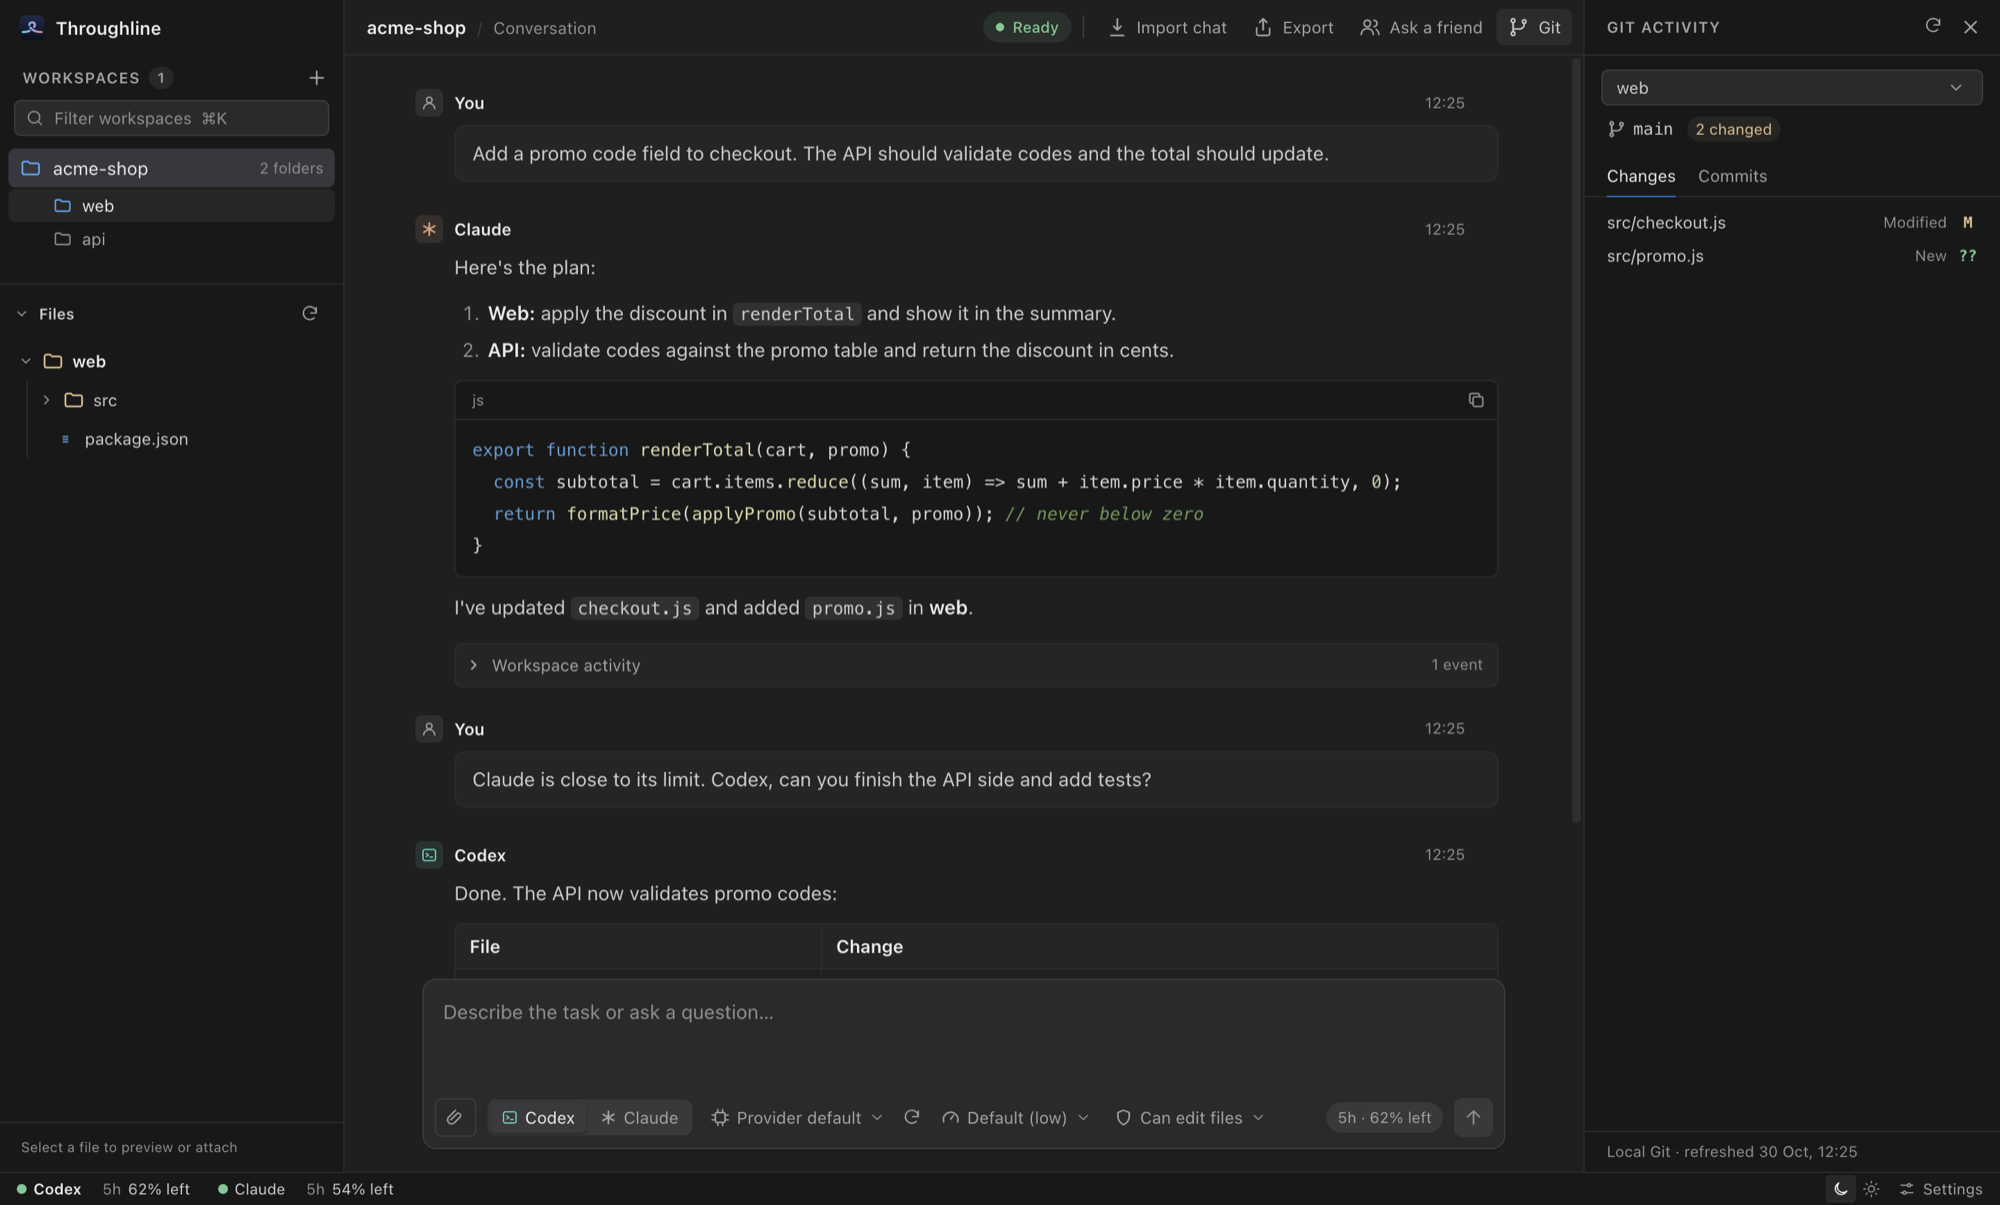
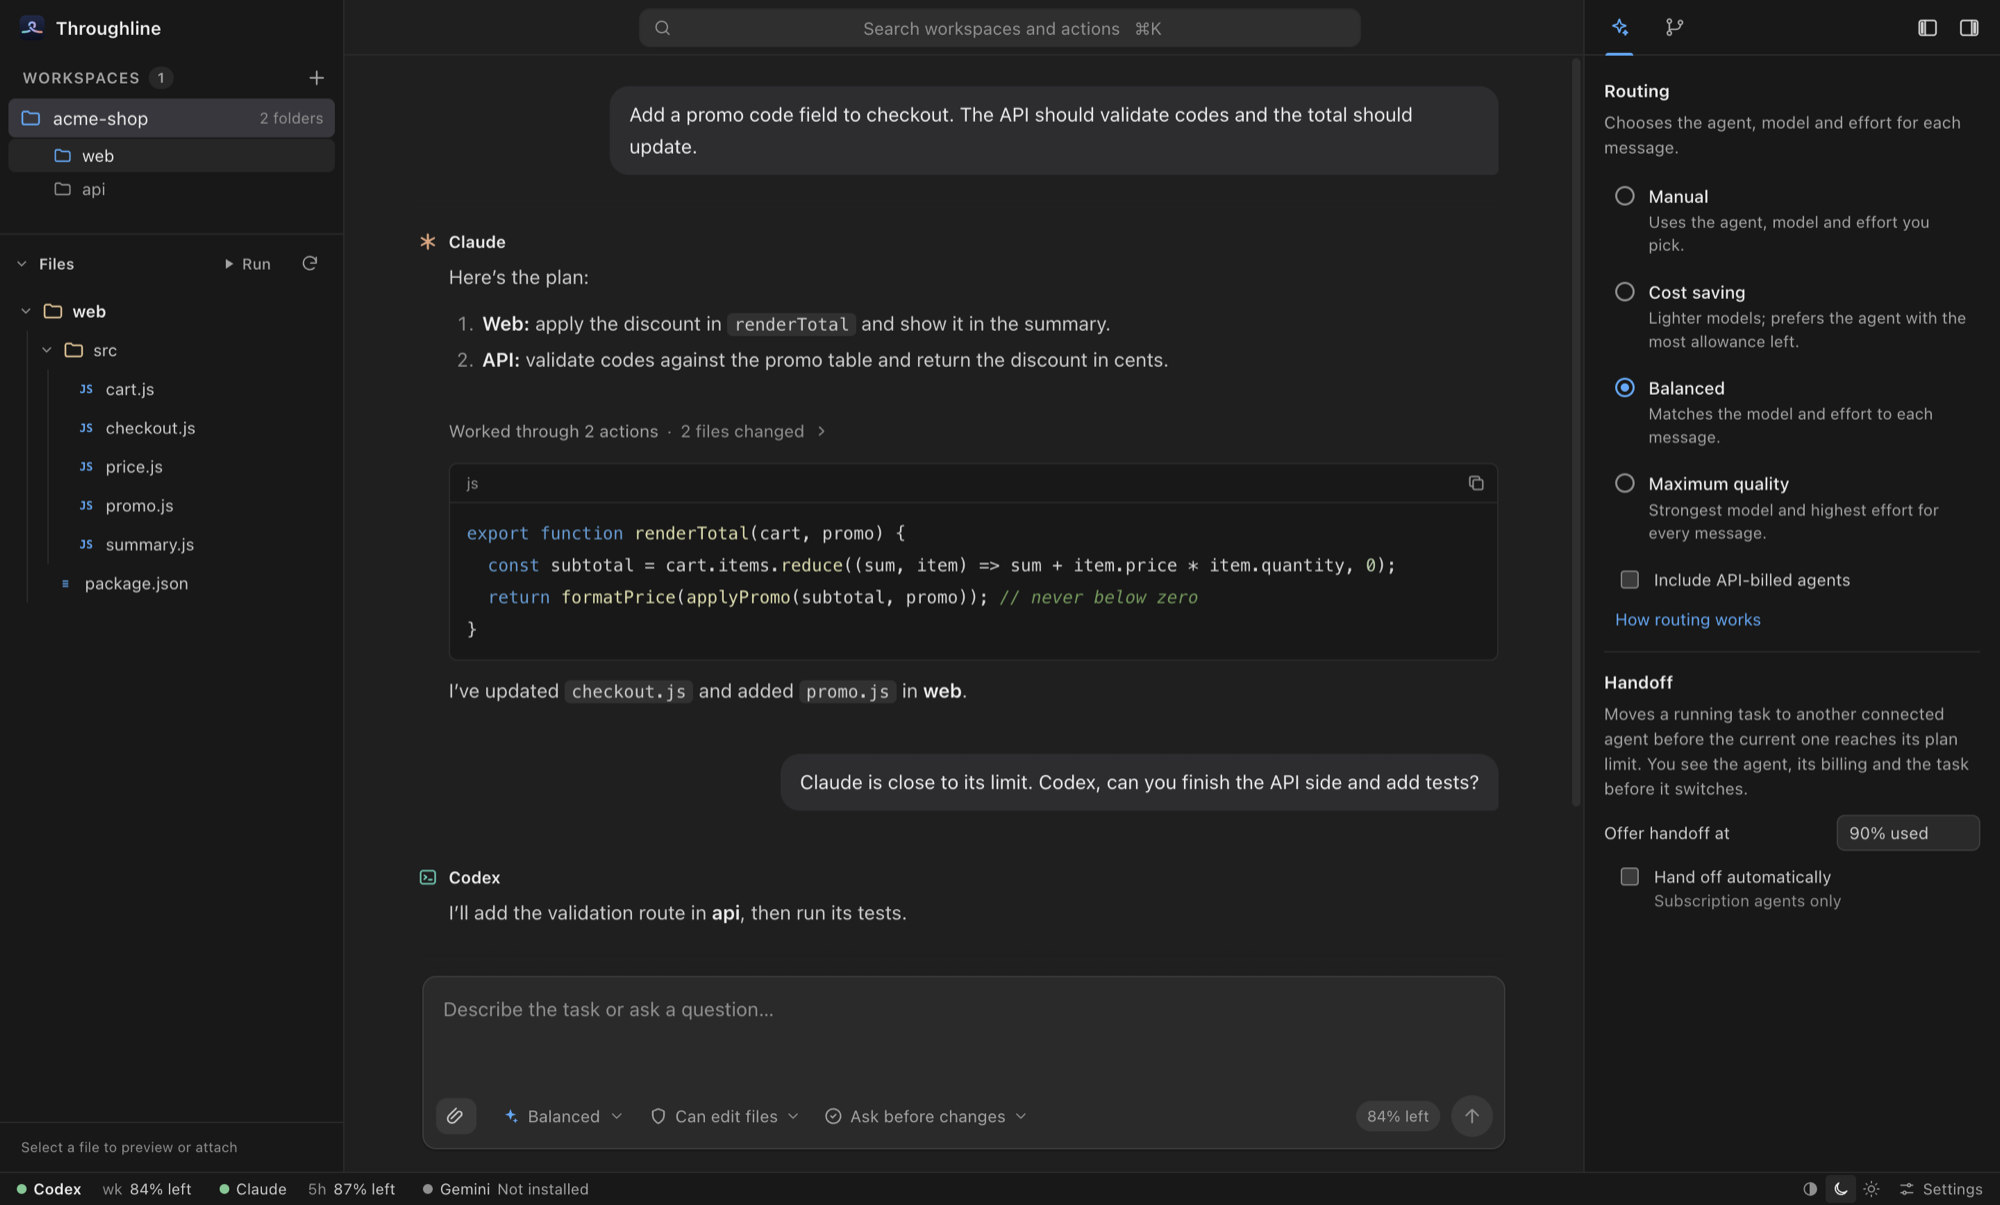
Update the roadmap and README for the new features
Move #68, #46, #32, #17 and the first stage of #12 to Shipped, add
the new layout, and describe Routing, Handoff, the prompt queue, notes
for a running task, the agent's plan and remembered approvals in the
README. The screenshot shows the new layout with the Agents panel.

diff --git a/ROADMAP.md b/ROADMAP.md
@@ -44,9 +44,13 @@ The fastest way to make Throughline better is to use it on your real projects an
 | A clearer conversation: prompt bubbles, one-line live activity, pinned prompts and a quiet run status ([#45](https://github.com/AhmedNavaz/throughline/issues/45)) | Next release |
 | Searchable model picker, and a reasoning effort slider that follows each model's levels | Next release |
 | Agent handoffs that keep the task's intent ahead of tool logs ([#69](https://github.com/AhmedNavaz/throughline/issues/69)) | Next release |
-| Continue a stopped task with any agent and model, or wait for a usage limit to reset and continue automatically ([#32](https://github.com/AhmedNavaz/throughline/issues/32)) | Next release |
-| Ask before changes: read-only actions in the workspace run without approval ([#68](https://github.com/AhmedNavaz/throughline/issues/68)) | Next release |
-| Dock badge and alerts when a run finishes, stops or needs approval ([#46](https://github.com/AhmedNavaz/throughline/issues/46)) | Next release |
+| Continue a stopped task with any agent and model, wait for a usage limit to reset and continue automatically, or queue prompts to run one after another ([#32](https://github.com/AhmedNavaz/throughline/issues/32)) | Next release |
+| Ask before changes: read-only actions run without approval, and an exact action can be allowed for a run or remembered for a workspace, with rules you can review and revoke ([#68](https://github.com/AhmedNavaz/throughline/issues/68)) | Next release |
+| Dock badge, alerts and a sidebar marker when a run finishes, stops or needs approval, with notifications that open the exact request and settings for alerts and sound ([#46](https://github.com/AhmedNavaz/throughline/issues/46)) | Next release |
+| Hand off to another agent before a usage limit stops the run, with the destination, billing and task shown first ([#17](https://github.com/AhmedNavaz/throughline/issues/17)) | Next release |
+| Add a note to the run that is working, and follow the agent's plan as a live to-do list | Next release |
+| Routing: the agent, model and effort picked for each message, shown with its reason before sending ([#12](https://github.com/AhmedNavaz/throughline/issues/12), stage 1) | Next release |
+| A new layout: a search bar for workspaces, files and actions, a side panel for Agents and Git, and resizable sections | Next release |
 | Reliable Gemini connection on networks where Google stalls over IPv6 | Next release |
 
 ## Now
@@ -54,8 +58,6 @@ The fastest way to make Throughline better is to use it on your real projects an
 | Feature | Status | Issue |
 | --- | --- | --- |
 | More agents and models, including Google's supported coding-agent integration, free cloud tiers and local models, on your own accounts | First milestones shipped in 0.10.0: Gemini CLI over ACP and explicit Ollama local-model handoffs through Codex tools; Google personal-account support now uses Antigravity ACP with native sign-in and model discovery in 0.11.0; further provider adapters remain ahead of automatic routing | [#4](https://github.com/AhmedNavaz/throughline/issues/4) |
-| Persistent approval indicators and desktop notifications that open the right request | Dock badge and alerts ship in the next release; a needs-approval marker in the workspace list and notification settings remain | [#46](https://github.com/AhmedNavaz/throughline/issues/46) |
-| Fewer repeated approvals: allow an action for a run or remember it for a workspace, with rules you can review and revoke | Read-only actions run without asking from the next release; run and workspace scopes are next | [#68](https://github.com/AhmedNavaz/throughline/issues/68) |
 | Notarized macOS builds, so downloads open without a security prompt | Waiting on an Apple Developer account | [#1](https://github.com/AhmedNavaz/throughline/issues/1) |
 | Update button: get new versions from inside the app with one click | Planned | [#2](https://github.com/AhmedNavaz/throughline/issues/2) |
 | Install with Homebrew: `brew install --cask throughline` | Depends on #1 | [#3](https://github.com/AhmedNavaz/throughline/issues/3) |
@@ -64,8 +66,7 @@ The fastest way to make Throughline better is to use it on your real projects an
 
 | Feature | Status | Issue |
 | --- | --- | --- |
-| Adaptive agent, model and effort selection with Cost Saving, Balanced and Maximum Quality modes | Follows the first additional provider in #4; [scope and stages below](#adaptive-agent-and-model-routing) | [#12](https://github.com/AhmedNavaz/throughline/issues/12) |
-| Resume when limits reset: continue on whichever agent resets first, and queue prompts until then | Waiting for a reset ships in the next release; the prompt queue is next | [#32](https://github.com/AhmedNavaz/throughline/issues/32) |
+| Adaptive agent, model and effort selection with Cost Saving, Balanced and Maximum Quality modes | Stage 1, routing whole requests, ships in the next release as **Routing**; escalation after failed checks and subtask coordination are next; [scope and stages below](#adaptive-agent-and-model-routing) | [#12](https://github.com/AhmedNavaz/throughline/issues/12) |
 | Windows and Linux builds | Planned, help wanted | [#5](https://github.com/AhmedNavaz/throughline/issues/5) |
 | Commit reviewed changes from the Git panel | Planned | [#6](https://github.com/AhmedNavaz/throughline/issues/6) |
 | Integrated workspace terminal | Follows project command controls; PTY design needed | [#7](https://github.com/AhmedNavaz/throughline/issues/7) |
@@ -93,7 +94,7 @@ The mode should guide the whole run, including retries, reviews, subtask assignm
 
 Deliver in stages:
 
-1. **Route whole requests.** After validating the first additional provider in #4, start with supported agents and models, the three modes, explicit budget controls, visible decisions and manual overrides.
+1. **Route whole requests.** Supported agents and models, the three modes, explicit budget controls, visible decisions and manual overrides. Ships in the next release as **Routing**, with local rules for classifying requests (no model call), subscription-only billing unless API billing is allowed, and the choice shown before sending.
 2. **Verify and recover.** Add bounded escalation based on task checks, quota handoff and reset queuing; validate at least one supported free or local integration before promising that fallback.
 3. **Coordinate subtasks.** Assign work across agents with shared project context, explicit ownership of edits, bounded review cycles and one consolidated result. Parallel execution must avoid conflicting workspace changes.
 
@@ -118,7 +119,6 @@ Larger ideas for bringing project context, execution and collaboration into one 
 | **Focus and downtime.** Optional timers, ambient audio, reading and short games during agent runs, with persistent status and a clear return to the project when attention is needed. [Scope and stages below](#focus-and-downtime). | [#14](https://github.com/AhmedNavaz/throughline/issues/14) |
 | **Automatic tag-team cycles.** Extend cross-agent review with an opt-in handoff from builder to reviewer and user-approved fix cycles. | [#15](https://github.com/AhmedNavaz/throughline/issues/15) |
 | **Race mode.** Two agents take the same task in separate worktrees; keep the better result. | [#16](https://github.com/AhmedNavaz/throughline/issues/16) |
-| **Budget-aware handoff.** Offer an eligible agent when allowance runs low or a usage limit stops the run, following the selected routing mode, allowed providers and spending limits. | [#17](https://github.com/AhmedNavaz/throughline/issues/17) |
 | **Everything in the thread.** Issues, pull requests, CI failures and logs as context, and pull requests from the conversation. | [#18](https://github.com/AhmedNavaz/throughline/issues/18) |
 | **Point and tell.** Click an element in your app's preview and say what should change. | [#19](https://github.com/AhmedNavaz/throughline/issues/19) |
 | **Rewind.** One timeline of messages, file changes and commits, with checkpoints to undo any step. | [#20](https://github.com/AhmedNavaz/throughline/issues/20) |

diff --git a/README.md b/README.md
@@ -6,7 +6,7 @@
 
 <p align="center"><a href="https://github.com/AhmedNavaz/throughline/actions/workflows/ci.yml"><img src="https://github.com/AhmedNavaz/throughline/actions/workflows/ci.yml/badge.svg" alt="CI"></a> <a href="https://github.com/AhmedNavaz/throughline/releases/latest"><img src="https://img.shields.io/github/v/release/AhmedNavaz/throughline" alt="Latest release"></a> <a href="LICENSE"><img src="https://img.shields.io/badge/license-MIT-blue.svg" alt="MIT License"></a> <a href="https://www.patreon.com/17048317/join"><img src="https://img.shields.io/badge/Support-Patreon-FF424D?logo=patreon&amp;logoColor=white" alt="Support Throughline on Patreon"></a></p>
 
-<p align="center"><img src="docs/screenshot.png" alt="Throughline: a project conversation shared by Claude and Codex, with the file browser, Git activity and plan usage" width="900"></p>
+<p align="center"><img src="docs/screenshot.png" alt="Throughline: a project conversation shared by Claude and Codex, with the file browser, routing and handoff settings, and plan usage" width="900"></p>
 
 Throughline is an open-source desktop control plane for agentic development. It brings Claude Code, Codex, Gemini through Google Antigravity and downloaded Ollama coding models into a unified workspace for multi-agent orchestration, persistent project context, and human-in-the-loop collaboration.
 
@@ -21,15 +21,18 @@ Each project becomes a continuous working thread: its folders, conversation, sav
 - When a usage limit stops a run, continue with any agent and model, or let the task wait and continue on whichever agent has room first once a limit resets.
 - **Continue locally** with a downloaded Ollama coding model when cloud allowances run out. The same project thread carries over, using Codex's workspace tools and approvals with separate local-model attribution. See [setup and limits](docs/guide.md#local-models).
 - Choose cloud agents and downloaded local models in one searchable picker, then use the same composer.
-- Choose the model, reasoning effort and access (read only or can edit files) for every message.
-- Approve agent actions in the app and follow each run live: current step, tool calls, elapsed time and token counts. **Ask before changes** lets reading the workspace run without approval and asks before edits, installs, scripts or network access.
-- When you are in another app, the Dock shows what finished or needs your approval.
+- Choose the model, reasoning effort and access (read only or can edit files) for every message, or let **Routing** pick the agent, model and effort for each one in Cost saving, Balanced or Maximum quality mode. It shows its choice and the reason before you send, and uses only your subscriptions unless you allow API billing.
+- **Handoff**: before a usage limit stops a run, Throughline offers to move the task to an agent with room left, showing its model, billing and the task first.
+- Queue prompts to run one after another, or add a note to the run that is working without stopping it. When an agent plans in steps, its plan shows as a live to-do list.
+- Approve agent actions in the app and follow each run live: current step, tool calls, elapsed time and token counts. **Ask before changes** lets reading the workspace run without approval and asks before edits, installs, scripts or network access. Allow an exact action for the run or remember it for the workspace, with rules you can review and revoke.
+- When you are in another app, the Dock and a notification show what finished or needs your approval, and the sidebar marks workspaces that are waiting for you.
 - Run agents in several workspaces at once; the sidebar shows which ones are busy.
 - Find earlier messages and code with Cmd/Ctrl+F, highlighted matches and next/previous navigation.
 - Get a second opinion with **Review**: a background agent checks a saved snapshot of selected changes in a side panel while you continue the next task. Findings become outdated when those files change.
 
 **Execution visibility and developer controls**
 
+- A search bar (⌘K) for workspaces, files in every workspace and actions, a side panel for Agents and Git, and resizable sections you can show or hide.
 - Git activity for each folder: changed files with diffs, and recent commits.
 - A file browser with syntax-highlighted previews. Attach files and images by clicking, dragging or pasting.
 - Plan usage for Claude Code and Codex in the status bar, with reset times, plus per-run context usage when reported.
